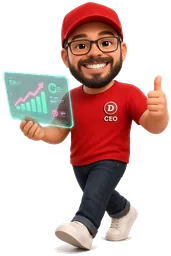
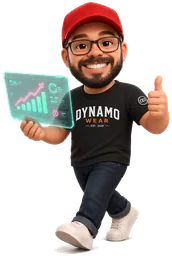
WorkAI: camiseta final do Daniel e o prédio Dynamo Wear
A versão aprovada troca a camiseta vermelha pela preta da marca. A Dyna 2.0 e cinco papéis de proposta ocupam um prédio separado, lido da plataforma de afiliados.

diff --git a/workai/workai.js b/workai/workai.js
@@ -3,7 +3,7 @@
 // chave, token ou IP, e nada é enviado para fora.
 // Integração das falas: WorkAI.notify(agentId, texto, { demo: true }).
 (() => {
-  const COLS = 20, ROWS = 36, TW = 64, TH = 32, WALL = 52;
+  const COLS = 20, ROWS = 52, TW = 64, TH = 32, WALL = 52;
   const reduce = matchMedia('(prefers-reduced-motion: reduce)').matches;
   const PASSO = 1000 / 30;
 
@@ -22,12 +22,16 @@
     { id: 'cli', name: 'Clientes', short: 'Clientes', col: '#7eb6e0', c: 8, r: 27, w: 6, h: 3, ala: 'dyno' },
     { id: 'fin', name: 'Finanças', short: 'Finanças', col: '#e2b657', c: 15, r: 27, w: 4, h: 3, ala: 'dyno' },
     { id: 'tec', name: 'Tecnologia', sub: 'Estaleiro e Esteira', short: 'Tecnologia', col: '#3ec6e0', c: 1, r: 33, w: 12, h: 3, ala: 'dyno' },
-    { id: 'brev', name: 'Em breve', short: 'Em breve', col: '#8a8f99', c: 14, r: 33, w: 5, h: 3, ala: 'dyno', breve: true }
+    { id: 'brev', name: 'Em breve', short: 'Em breve', col: '#8a8f99', c: 14, r: 33, w: 5, h: 3, ala: 'dyno', breve: true },
+    { id: 'marca', name: 'Dynamo Wear', sub: 'EST. 2026', short: 'Marca', col: '#ff7a1a', piso: '#2a1c14cc', c: 1, r: 40, w: 11, h: 4, glass: true, ala: 'wear' },
+    { id: 'wped', name: 'Pedidos', short: 'Pedidos', col: '#ffb020', piso: '#241910cc', c: 13, r: 40, w: 6, h: 4, ala: 'wear' },
+    { id: 'wcom', name: 'Comissões', short: 'Comissões', col: '#e2c27a', piso: '#241910cc', c: 1, r: 47, w: 8, h: 3, ala: 'wear' },
+    { id: 'wcon', name: 'Conteúdo', short: 'Conteúdo', col: '#ff8a2a', piso: '#241910cc', c: 10, r: 47, w: 9, h: 3, ala: 'wear' }
   ];
   const room = (id) => ROOMS.find((r) => r.id === id);
   const salaDe = (c, r) => ROOMS.find((rm) => c >= rm.c && r >= rm.r && c < rm.c + rm.w && r < rm.r + rm.h) || null;
 
-  const PORTAS = [[8, 4], [9, 4], [3, 6], [4, 6], [9, 6], [10, 6], [16, 6], [17, 6], [3, 10], [4, 10], [9, 10], [10, 10], [16, 10], [17, 10], [2, 12], [3, 12], [7, 12], [8, 12], [12, 12], [13, 12], [17, 12], [7, 20], [8, 20], [14, 20], [15, 20], [4, 24], [5, 24], [14, 24], [15, 24], [2, 26], [3, 26], [9, 26], [10, 26], [16, 26], [17, 26], [2, 30], [3, 30], [9, 30], [10, 30], [16, 30], [4, 32], [5, 32], [8, 32], [9, 32], [16, 32]];
+  const PORTAS = [[8, 4], [9, 4], [3, 6], [4, 6], [9, 6], [10, 6], [16, 6], [17, 6], [3, 10], [4, 10], [9, 10], [10, 10], [16, 10], [17, 10], [2, 12], [3, 12], [7, 12], [8, 12], [12, 12], [13, 12], [17, 12], [7, 20], [8, 20], [14, 20], [15, 20], [4, 24], [5, 24], [14, 24], [15, 24], [2, 26], [3, 26], [9, 26], [10, 26], [16, 26], [17, 26], [2, 30], [3, 30], [9, 30], [10, 30], [16, 30], [4, 32], [5, 32], [8, 32], [9, 32], [16, 32], [3, 44], [4, 44], [15, 44], [16, 44], [2, 46], [3, 46], [12, 46], [13, 46]];
   const VAGAS = {
     copa: [[12, 13], [13, 13], [14, 13], [14, 15], [11, 14], [12, 15], [13, 15]],
     desc: [[16, 13], [16, 14], [18, 13], [17, 13], [17, 14]],
@@ -75,7 +79,13 @@
     { room: 'tec', name: 'Gauntlet', role: 'prova ao lado do Estaleiro', sit: 'No ar', cuida: 'A prova ao lado do Estaleiro.', nunca: 'Publica no lugar da esteira.', desk: [12, 33], c: 11.5, r: 35.35 },
     { room: 'brev', name: 'Partner AI', role: 'em breve', breve: true, sit: 'Em breve', cuida: 'Ainda sem função publicada.', nunca: 'Ainda não atua.', c: 15.5, r: 34.35 },
     { room: 'brev', name: 'Ads AI', role: 'em breve', breve: true, sit: 'Em breve', cuida: 'Ainda sem função publicada.', nunca: 'Ainda não atua.', c: 17.5, r: 34.35 },
-    { room: 'brev', name: 'Guard AI', role: 'em breve', breve: true, sit: 'Em breve', cuida: 'Ainda sem função publicada.', nunca: 'Ainda não atua.', c: 16.5, r: 35.35 }
+    { room: 'brev', name: 'Guard AI', role: 'em breve', breve: true, sit: 'Em breve', cuida: 'Ainda sem função publicada.', nunca: 'Ainda não atua.', c: 16.5, r: 35.35 },
+    { room: 'marca', name: 'Dyna 2.0', role: 'agente-chefe da Dynamo Wear', chefe: true, tom: '#ff7a1a', sit: 'Chefe do setor', cuida: 'O setor Dynamo Wear e a fila do time.', nunca: 'Mostra dado de afiliado, cupom, pedido ou valor.', c: 5.5, r: 42.35 },
+    { room: 'marca', name: 'Afiliados', role: 'cadastro de afiliados', proposta: true, sit: 'Proposta', cuida: 'O cadastro de afiliados: status e aprovação.', nunca: 'Expõe nome, contato ou chave de pagamento.', desk: [2, 40], c: 2.5, r: 41.4 },
+    { room: 'marca', name: 'Cupons', role: 'cupons da loja', proposta: true, sit: 'Proposta', cuida: 'O cupom ligado ao afiliado e o desconto na loja.', nunca: 'Cria um cupom real nem mostra código.', desk: [9, 40], c: 9.5, r: 41.4 },
+    { room: 'wped', name: 'Pedidos', role: 'pedidos da loja', proposta: true, sit: 'Proposta', cuida: 'O pedido da loja atribuído a um afiliado.', nunca: 'Mostra pedido, cliente ou valor.', desk: [14, 40], c: 15.5, r: 41.4 },
+    { room: 'wcom', name: 'Comissões', role: 'comissão e saque', proposta: true, sit: 'Proposta', cuida: 'A comissão da venda e o pedido de saque.', nunca: 'Paga. Dinheiro nunca passa do nível 2.', desk: [2, 47], c: 4.5, r: 48.35 },
+    { room: 'wcon', name: 'Conteúdo', role: 'presença de creator', proposta: true, sit: 'Proposta', cuida: 'A presença de creator no perfil do afiliado.', nunca: 'Publica peça nem cita creator real.', desk: [11, 47], c: 14.5, r: 48.35 }
   ];
 
   const W = new Uint8Array(COLS * ROWS);
@@ -111,8 +121,16 @@
   fill(1, 31, 18, 31);
   fill(1, 33, 12, 35);
   fill(14, 33, 18, 35);
+  fill(8, 36, 9, 37);
+  fill(6, 38, 12, 39);
+  fill(1, 39, 18, 39);
+  fill(1, 40, 11, 43);
+  fill(13, 40, 18, 43);
+  fill(1, 45, 18, 45);
+  fill(1, 47, 8, 49);
+  fill(10, 47, 18, 49);
   for (const [c, r] of PORTAS) mark(c, r, 1);
-  const BLOQUEIOS = [[7, 1], [8, 1], [9, 1], [10, 1], [8, 0], [9, 0], [12, 14], [13, 14], [11, 15], [17, 15], [18, 15], [16, 15], [18, 14], [1, 9], [11, 9], [18, 7], [1, 13], [4, 15], [6, 13], [3, 21], [4, 21], [5, 21], [4, 22], [5, 22]];
+  const BLOQUEIOS = [[7, 1], [8, 1], [9, 1], [10, 1], [8, 0], [9, 0], [12, 14], [13, 14], [11, 15], [17, 15], [18, 15], [16, 15], [18, 14], [1, 9], [11, 9], [18, 7], [1, 13], [4, 15], [6, 13], [3, 21], [4, 21], [5, 21], [4, 22], [5, 22], [6, 40], [7, 40]];
   for (const a of RAW) if (a.desk) BLOQUEIOS.push(a.desk);
   for (const [c, r] of BLOQUEIOS) mark(c, r, 0);
 
@@ -130,14 +148,14 @@
     return {
       roomId: a.room, room: rm, name: a.name, id: slug(a.name), role: a.role,
       coord: !!a.coord, shield: !!a.shield, bot: !!a.bot, ceo: !!a.ceo, desk: a.desk || null,
-      destaque: !!a.destaque, brief: !!a.brief, breve: !!a.breve, tom: a.tom || '',
+      destaque: !!a.destaque, brief: !!a.brief, breve: !!a.breve, chefe: !!a.chefe, proposta: !!a.proposta, tom: a.tom || '',
       sit: a.sit || '', nivel: a.nivel || (a.cuida ? 'não marcado' : ''),
       cuida: a.cuida || '', nunca: a.nunca || '',
       homeC: a.c, homeR: a.r, c: a.c, r: a.r,
       hair: a.ceo ? '#2a1810' : a.name === 'Dina' ? '#6d3ea3' : HAIR[h % HAIR.length],
       skin: a.ceo ? '#e4b48e' : a.bot ? '#d7f6ff' : a.name === 'Dina' ? '#f6d0dc' : SKIN[h % SKIN.length],
       hairStyle: a.ceo ? 0 : h % 6, ph: (h % 628) / 100,
-      status: a.ceo || a.breve || rm.ala === 'dyno' ? null : STATUS[h % 4],
+      status: a.ceo || a.breve || rm.ala === 'dyno' || rm.ala === 'wear' ? null : STATUS[h % 4],
       nome: a.ceo ? 'Daniel' : a.name,
       caminho: null, passo: 0, espera: 1200 + (h % 5000), fila: [], missao: null, trava: 0, repath: 0, ultimoAlvo: ''
     };
@@ -147,10 +165,12 @@
   if (erros.length) console.warn('WorkAI mapa', erros.join('; '));
 
   // O robô verde é só o Dyno AI. O Dyno Bot (CTO) continua o holograma com coroa.
+  // A Dyna 2.0 é o robô preto e laranja, com o W. Não é a Dina.
   const ROBOS = {
     Daniel: { cor: '#e2c27a', base: '/workai/assets/avatares/daniel', alto: 102 },
     'Dyno AI': { cor: '#3ddc97', base: '/workai/assets/avatares/dyno', alto: 98 },
-    Dina: { cor: '#ff4fa3', base: '/workai/assets/avatares/dina', alto: 90 }
+    Dina: { cor: '#ff4fa3', base: '/workai/assets/avatares/dina', alto: 90 },
+    'Dyna 2.0': { cor: '#ff7a1a', base: '/workai/assets/avatares/dyna', alto: 96 }
   };
   const carregarImg = (src) => {
     if (typeof Image !== 'function') return null;
@@ -180,6 +200,8 @@
   const nomeCeo = () => player.nome || 'Daniel';
   const reportsTo = (a) => {
     if (a.ceo) return '';
+    if (a.chefe) return nomeCeo() + ' (CEO)';
+    if (a.room?.ala === 'wear') return 'Dyna 2.0';
     if (a.bot || a.brief) return nomeCeo() + ' (CEO)';
     if (a.room?.ala === 'dyno') return 'Brief AI';
     if (a.coord || a.roomId === 'op') return 'Dyno Bot (CTO)';
@@ -408,7 +430,13 @@
     'Testes': 'A verificação ilustrativa da esteira terminou.',
     'Revisor': 'A revisão ilustrativa da esteira está na fila.',
     'Sentinela Esteira': 'O passo ilustrativo de publicação foi observado.',
-    'Gauntlet': 'A prova ilustrativa ao lado do Estaleiro terminou.'
+    'Gauntlet': 'A prova ilustrativa ao lado do Estaleiro terminou.',
+    'Dyna 2.0': 'O setor ilustrativo da Dynamo Wear tem um aviso.',
+    Afiliados: 'Um cadastro ilustrativo de afiliado espera leitura.',
+    Cupons: 'Um cupom ilustrativo da loja espera revisão.',
+    Pedidos: 'Um pedido ilustrativo da loja foi atribuído.',
+    'Comissões': 'Uma comissão ilustrativa espera aprovação. Dinheiro não passa do nível 2.',
+    'Conteúdo': 'Uma peça ilustrativa de creator ficou no rascunho.'
   };
   function tickDemo(dt) {
     demoEm -= dt;
@@ -505,6 +533,7 @@
   }
   function boundsOf(id) {
     if (id === 'dyno') return caixa(0, 18.2, COLS, 36.3);
+    if (id === 'wear') return caixa(0, 37.2, COLS, ROWS + 0.3);
     if (!id || id === 'dm') return caixa(0, -0.4, COLS, 16.8);
     const rm = room(id);
     if (!rm) return caixa(0, -0.4, COLS, 16.8);
@@ -515,17 +544,27 @@
       const r = Math.floor(player.r);
       return [Math.max(0, r - 12), Math.min(ROWS - 1, r + 10)];
     }
-    if (focusId === 'dyno') return [18, ROWS - 1];
+    if (focusId === 'dyno') return [18, 36];
+    if (focusId === 'wear') return [37, ROWS - 1];
     const rm = room(focusId);
     if (rm) return [Math.max(0, rm.r - 2), Math.min(ROWS - 1, rm.r + rm.h + 2)];
     return [0, 17];
   }
   function drawWalls() {
     const h = WALL;
-    quad(project(0, -0.2, h), project(COLS, -0.2, h), project(COLS, -0.2, 0), project(0, -0.2, 0), '#3a342c');
-    quad(project(-0.2, 0, h), project(-0.2, ROWS, h), project(-0.2, ROWS, 0), project(-0.2, 0, 0), '#2e2924');
-    quad(project(0, -0.2, h + 5), project(COLS, -0.2, h + 5), project(COLS, -0.2, h), project(0, -0.2, h), '#e2c27a');
-    quad(project(-0.2, 0, h + 5), project(-0.2, ROWS, h + 5), project(-0.2, ROWS, h), project(-0.2, 0, h), '#c4a15a');
+    const faixa = (c0, c1, r, col, cap) => {
+      quad(project(c0, r, h), project(c1, r, h), project(c1, r, 0), project(c0, r, 0), col);
+      quad(project(c0, r, h + 5), project(c1, r, h + 5), project(c1, r, h), project(c0, r, h), cap);
+    };
+    const lado = (c, r0, r1, col, cap) => {
+      quad(project(c, r0, h), project(c, r1, h), project(c, r1, 0), project(c, r0, 0), col);
+      quad(project(c, r0, h + 5), project(c, r1, h + 5), project(c, r1, h), project(c, r0, h), cap);
+    };
+    faixa(0, COLS, -0.2, '#3a342c', '#e2c27a');
+    lado(-0.2, 0, 36, '#2e2924', '#c4a15a');
+    faixa(0, 7.6, 37.8, '#161616', '#ff7a1a');
+    faixa(10.4, COLS, 37.8, '#161616', '#ff7a1a');
+    lado(-0.2, 38, ROWS, '#121212', '#ff7a1a');
   }
   function tile(c, r, col) {
     quad(project(c, r), project(c + 1, r), project(c + 1, r + 1), project(c, r + 1), col);
@@ -533,26 +572,34 @@
   function drawFloor() {
     const [r0, r1] = vista;
     for (let r = r0; r <= r1; r++) for (let c = 0; c < COLS; c++) if (W[at(c, r)]) {
-      tile(c, r, (c + r) % 2 ? '#171a22' : '#1c1f29');
+      const zona = r >= 38 ? 'wear' : (r >= 36 ? 'ponte' : 'casa');
+      const cor = zona === 'wear' ? ((c + r) % 2 ? '#121214' : '#1a1a1d') : zona === 'ponte' ? ((c + r) % 2 ? '#2a2118' : '#3a2c1e') : ((c + r) % 2 ? '#171a22' : '#1c1f29');
+      tile(c, r, cor);
     }
     for (const rm of ROOMS) {
       if (rm.r + rm.h < r0 || rm.r > r1) continue;
       ctx.save();
       if (rm.breve) ctx.globalAlpha = 0.42;
-      quad(project(rm.c, rm.r), project(rm.c + rm.w, rm.r), project(rm.c + rm.w, rm.r + rm.h), project(rm.c, rm.r + rm.h), rm.col + (rm.glass ? '99' : '66'));
+      quad(project(rm.c, rm.r), project(rm.c + rm.w, rm.r), project(rm.c + rm.w, rm.r + rm.h), project(rm.c, rm.r + rm.h), rm.piso || (rm.col + (rm.glass ? '99' : '66')));
       ctx.beginPath();
       const a = project(rm.c, rm.r), b = project(rm.c + rm.w, rm.r), c = project(rm.c + rm.w, rm.r + rm.h), d = project(rm.c, rm.r + rm.h);
       ctx.moveTo(a.x, a.y); ctx.lineTo(b.x, b.y); ctx.lineTo(c.x, c.y); ctx.lineTo(d.x, d.y); ctx.closePath();
-      ctx.strokeStyle = rm.id === 'odyn' ? '#d7f5b0' : rm.col;
+      ctx.strokeStyle = rm.ala === 'wear' ? '#ff7a1a' : rm.id === 'odyn' ? '#d7f5b0' : rm.col;
       ctx.globalAlpha = rm.breve ? 0.45 : rm.glass ? 0.95 : 0.55;
-      ctx.lineWidth = rm.id === 'odyn' ? 3.2 : rm.glass ? 2.4 : 1.5;
+      ctx.lineWidth = rm.ala === 'wear' || rm.id === 'odyn' ? 3.2 : rm.glass ? 2.4 : 1.5;
       ctx.stroke();
       ctx.restore();
     }
     for (const [c, r] of PORTAS) if (r >= r0 && r <= r1) tile(c, r, '#3a3428');
-    const edge = [project(0, 0), project(COLS, 0), project(COLS, ROWS), project(0, ROWS)];
-    ctx.beginPath(); edge.forEach((p, i) => (i ? ctx.lineTo(p.x, p.y) : ctx.moveTo(p.x, p.y))); ctx.closePath();
-    ctx.strokeStyle = 'rgba(226,194,122,.8)'; ctx.lineWidth = 2; ctx.stroke();
+    const o = (c, r) => project(c, r);
+    const contorno = (pts, cor) => {
+      ctx.beginPath();
+      pts.forEach((p, i) => (i ? ctx.lineTo(p.x, p.y) : ctx.moveTo(p.x, p.y)));
+      ctx.closePath();
+      ctx.strokeStyle = cor; ctx.lineWidth = 2; ctx.stroke();
+    };
+    contorno([o(0, 0), o(COLS, 0), o(COLS, 36), o(10.3, 36), o(10.3, 36.15), o(7.7, 36.15), o(7.7, 36), o(0, 36)], 'rgba(226,194,122,.8)');
+    contorno([o(0, 38), o(7.7, 38), o(7.7, 37.85), o(10.3, 37.85), o(10.3, 38), o(COLS, 38), o(COLS, ROWS), o(0, ROWS)], 'rgba(255,122,26,.9)');
   }
   function medallion(c, r) {
     const p = project(c, r, 0);
@@ -633,9 +680,34 @@
     box(3.05, 21.05, 2.7, 1.15, 10, '#d7f5b0', '#6ea84a', '#3e6a2c');
     box(3.35, 21.3, 2.1, 0.55, 16, '#e2c27a', '#a6853f', '#6e5424');
   }
+  function drawArara() {
+    box(5.7, 40.15, 1.7, 0.32, 20, '#141414', '#0e0e0e', '#080808');
+    box(5.82, 40.2, 0.12, 0.2, 28, '#ff7a1a', '#c45a10', '#8a3c08');
+    box(7.05, 40.2, 0.12, 0.2, 28, '#ff7a1a', '#c45a10', '#8a3c08');
+    const p = project(6.55, 40.28, 24);
+    ctx.fillStyle = '#111';
+    ctx.fillRect(p.x - 16, p.y - 10, 18, 14);
+    ctx.strokeStyle = '#ff7a1a'; ctx.lineWidth = 1; ctx.strokeRect(p.x - 16, p.y - 10, 18, 14);
+  }
+  function drawLetreiro() {
+    const p = project(6.1, 39.15, 36);
+    ctx.save();
+    ctx.translate(p.x, p.y);
+    ctx.fillStyle = '#111';
+    ctx.fillRect(-58, -24, 116, 40);
+    ctx.strokeStyle = '#ff7a1a'; ctx.lineWidth = 1.6; ctx.strokeRect(-58, -24, 116, 40);
+    ctx.textAlign = 'center'; ctx.textBaseline = 'middle';
+    ctx.fillStyle = '#fff'; ctx.font = '800 14px system-ui,sans-serif';
+    ctx.fillText('DYNAMO', 0, -8);
+    ctx.fillStyle = '#ff7a1a'; ctx.font = '800 11px system-ui,sans-serif';
+    ctx.fillText('WEAR', 0, 6);
+    ctx.fillStyle = '#f4efe4'; ctx.font = '600 7px system-ui,sans-serif';
+    ctx.fillText('EST. 2026', 0, 16);
+    ctx.restore();
+  }
   function drawFluxos() {
     if (!fluxos) return;
-    const ala = focusId === 'dyno' || (seguir && player.r > 17) || room(focusId)?.ala === 'dyno';
+    const ala = focusId === 'dyno' || room(focusId)?.ala === 'dyno' || (seguir && player.r > 17 && player.r < 36);
     if (!ala) return;
     const pos = (nome) => { const a = achar(nome); return project(a.homeC, a.homeR, 3); };
     const est = project(6.2, 34.1, 3);
@@ -679,7 +751,7 @@
     const larg = alto * (img.naturalWidth / img.naturalHeight);
     ctx.save();
     ctx.translate(feet.x, feet.y);
-    const marca = a.destaque || a.ceo;
+    const marca = a.destaque || a.ceo || a.chefe;
     ellipse(0, 3, marca ? 20 : 16, 7, 'rgba(0,0,0,.32)');
     if (!reduce) {
       ctx.strokeStyle = a.corRobo;
@@ -792,14 +864,15 @@
   function visivel(a) {
     if (seguir) return Math.abs(a.r - player.r) < 14 && Math.abs(a.c - player.c) < 16;
     if (focusId === 'dyno') return a.room?.ala === 'dyno';
-    if (focusId === 'dm' || !focusId) return a.room?.ala !== 'dyno';
+    if (focusId === 'wear') return a.room?.ala === 'wear';
+    if (focusId === 'dm' || !focusId) return a.room?.ala === 'dm';
     return a.roomId === focusId;
   }
 
   function drawLabels() {
     const overview = !seguir && ((focusId === 'dyno' && cam.s < 0.95) || ((focusId === 'dm' || !focusId) && cam.s < 0.72));
     if (overview) {
-      const ala = focusId === 'dyno' ? 'dyno' : 'dm';
+      const ala = focusId === 'dyno' ? 'dyno' : focusId === 'wear' ? 'wear' : 'dm';
       ctx.textAlign = 'center'; ctx.textBaseline = 'middle'; ctx.font = '700 12px system-ui,sans-serif';
       for (const rm of ROOMS) {
         if (rm.ala !== ala) continue;
@@ -824,8 +897,8 @@
       for (const p of placed) if (Math.abs(p.x - s.x) < (p.w + w) / 2 && Math.abs(p.y - y) < 18) y = p.y - 18;
       placed.push({ x: s.x, y, w });
       const hot = hover === a;
-      const claro = hot || a.ceo || a.destaque || a.name === 'Dina';
-      const borda = a.ceo ? '#e2c27a' : a.name === 'Dina' ? '#ff4fa3' : a.destaque ? '#3ddc97' : a.room.col;
+      const claro = hot || a.ceo || a.destaque || a.chefe || a.name === 'Dina';
+      const borda = a.ceo ? '#e2c27a' : (a.corRobo || (a.destaque ? '#3ddc97' : a.room.col));
       rr(s.x - w / 2, y - 10, w, 20, 8, claro ? '#fffdf6' : 'rgba(8,10,16,.88)', borda);
       ctx.fillStyle = claro ? '#1b1f2e' : '#fff';
       ctx.fillText(label, s.x + (a.status ? 4 : 0), y);
@@ -873,7 +946,7 @@
   }
   function drawLegendaFluxos() {
     if (!fluxos) return;
-    const ala = focusId === 'dyno' || room(focusId)?.ala === 'dyno' || (seguir && player.r > 17);
+    const ala = focusId === 'dyno' || room(focusId)?.ala === 'dyno' || (seguir && player.r > 17 && player.r < 36);
     if (!ala) return;
     const itens = [['#f0a05a', 'Cliente novo'], ['#7eb6e0', 'Chamado'], ['#3ec6e0', 'Erro no ambiente'], ['#f0d78c', 'Gestão → Daniel']];
     ctx.font = '700 12px system-ui,sans-serif'; ctx.textAlign = 'left'; ctx.textBaseline = 'middle';
@@ -923,7 +996,7 @@
       pool(17.2, 14.4, 60, 'rgba(126,200,195,.16)');
       medallion(9.5, 5.5);
     }
-    if (vista[1] > 20) pool(5, 22.4, 96, 'rgba(141,212,106,.22)');
+    if (vista[0] < 30 && vista[1] > 20) pool(5, 22.4, 96, 'rgba(141,212,106,.22)');
     const list = [];
     const add = (k, fn) => list.push({ k, fn });
     if (vista[0] < 16) {
@@ -931,7 +1004,8 @@
       [[1, 9], [11, 9], [18, 7], [1, 13], [4, 15], [6, 13]].forEach(([c, r]) => add(c + r, () => drawPlant(c, r)));
       add(26, drawMesaCopa); add(26.2, drawCafe); add(30, drawLounge);
     }
-    if (vista[1] > 20) add(24.4, drawPalco);
+    if (vista[0] < 34 && vista[1] > 20) add(24.4, drawPalco);
+    if (vista[1] > 38) { add(39.3, drawLetreiro); add(40.5, drawArara); }
     for (const a of agents) if (a.desk && visivel(a)) add(a.desk[0] + a.desk[1] + 0.2, () => drawDesk(a));
     for (const a of agents) if (visivel(a)) add(a.c + a.r + 0.05, () => drawAgent(a, andando(a)));
     list.sort((a, b) => a.k - b.k);
@@ -955,8 +1029,8 @@
     ctx.setTransform(dpr, 0, 0, dpr, 0, 0);
     if (focusId && !seguir) {
       const rm = room(focusId);
-      const texto = rm ? (rm.sub ? rm.name + ' · ' + rm.sub : rm.name) : (focusId === 'dyno' ? 'Operação Dyno' : 'Escritório');
-      const col = rm ? rm.col : (focusId === 'dyno' ? '#8fd46a' : '#e2c27a');
+      const texto = rm ? (rm.sub ? rm.name + ' · ' + rm.sub : rm.name) : (focusId === 'dyno' ? 'Operação Dyno' : focusId === 'wear' ? 'Dynamo Wear · EST. 2026' : 'Escritório');
+      const col = rm ? rm.col : (focusId === 'dyno' ? '#8fd46a' : focusId === 'wear' ? '#ff7a1a' : '#e2c27a');
       ctx.font = '700 13px system-ui,sans-serif'; ctx.textAlign = 'left'; ctx.textBaseline = 'middle';
       const w = ctx.measureText(texto).width + 16;
       rr(12, 10, w, 22, 8, 'rgba(8,10,16,.88)');
@@ -1009,7 +1083,7 @@
     h.id = 'card-nome';
     h.textContent = (a.ceo ? a.nome : a.name) + (a.coord ? ' ★' : '') + (a.shield ? ' 🛡' : '');
     const papel = document.createElement('p'); papel.className = 'papel';
-    papel.textContent = a.ceo ? 'CEO' : a.bot ? 'CTO' : a.destaque ? 'Carro-chefe' : a.name === 'Dina' ? 'Agenda e rotina' : a.brief ? 'Ponte de gestão' : a.breve ? 'Em breve' : a.coord ? 'Coordenador' : a.shield ? 'Segurança' : 'Agente';
+    papel.textContent = a.ceo ? 'CEO' : a.bot ? 'CTO' : a.chefe ? 'Chefe da Dynamo Wear' : a.proposta ? 'Proposta' : a.destaque ? 'Carro-chefe' : a.name === 'Dina' ? 'Agenda e rotina' : a.brief ? 'Ponte de gestão' : a.breve ? 'Em breve' : a.coord ? 'Coordenador' : a.shield ? 'Segurança' : 'Agente';
     const area = document.createElement('p'); area.className = 'area';
     const dot = document.createElement('span'); dot.className = 'ponto'; dot.style.background = a.room.col;
     area.append(dot, document.createTextNode(a.room.sub ? a.room.name + ' · ' + a.room.sub : a.room.name));
@@ -1036,6 +1110,7 @@
       corpo.append(p);
     };
     if (a.bot) { const g = document.createElement('p'); g.textContent = 'Gerente dos agentes.'; corpo.append(g); }
+    else if (a.chefe) { const g = document.createElement('p'); g.textContent = 'Agente-chefe da Dynamo Wear. Responde ao Daniel.'; corpo.append(g); }
     else if (!a.ceo && !a.cuida) {
       const role = document.createElement('p');
       role.textContent = a.role.charAt(0).toUpperCase() + a.role.slice(1) + '.';
@@ -1118,6 +1193,7 @@
   }
   chip('dm', 'Escritório', '#e2c27a');
   chip('dyno', 'Operação Dyno', '#8fd46a');
+  chip('wear', 'Dynamo Wear', '#ff7a1a');
   ROOMS.forEach((r) => chip(r.id, r.short, r.col));
   document.getElementById('centralizar').addEventListener('click', () => { seguir = true; focusId = ''; syncChips(); });
   const btnFluxos = document.getElementById('fluxos');
@@ -1152,7 +1228,7 @@
     linha('n1', 'Dyno Bot · CTO · gerente', achar('Dyno Bot'));
     linha('n2', 'Recap AI', achar('Recap AI'));
     for (const rm of ROOMS) {
-      if (rm.id === 'dir' || rm.id === 'copa' || rm.id === 'desc' || rm.id === 'op') continue;
+      if (rm.ala !== 'dm' || rm.id === 'dir' || rm.id === 'copa' || rm.id === 'desc' || rm.id === 'op') continue;
       const coord = agents.find((a) => a.roomId === rm.id && a.coord);
       if (!coord) continue;
       linha('n2', '★ ' + coord.name + ' · ' + rm.short, coord);
@@ -1167,6 +1243,9 @@
       linha('n2', rm.short, null, () => setFocus(id));
       agents.filter((a) => a.roomId === id).forEach((a) => linha(a.breve ? 'n3 breve' : 'n3', a.name, a));
     }
+    linha('n1', 'Dynamo Wear', null, () => setFocus('wear'));
+    linha('n2', 'Dyna 2.0 · chefe', achar('Dyna 2.0'));
+    for (const nome of ['Afiliados', 'Cupons', 'Pedidos', 'Comissões', 'Conteúdo']) linha('n3', nome + ' · proposta', achar(nome));
   }
   montarArvore();
 
@@ -1226,7 +1305,7 @@
       abrir(a, { x: x == null ? 640 : x, y: y == null ? 120 : y });
       return document.getElementById('card-corpo').textContent;
     },
-    robosProntos: () => ['Daniel', 'Dyno AI', 'Dina'].every((n) => {
+    robosProntos: () => ['Daniel', 'Dyno AI', 'Dina', 'Dyna 2.0'].every((n) => {
       const a = achar(n);
       return !!(a && spriteRobo(a));
     }),

diff --git a/workai/index.html b/workai/index.html
@@ -42,7 +42,7 @@
     <p class="regra">Dinheiro nunca passa do nível 2.</p>
     <h2>Hierarquia</h2>
     <div class="arvore" id="arvore"></div>
-    <p class="nota">Daniel (CEO) fica acima do Dyno Bot (CTO). A ala Operação Dyno responde à Diretoria, e o Brief AI é a ponte de gestão. ★ coordenador · escudo de segurança. Um aviso (demo) faz o agente vir até você. Os três esmaecidos estão em breve. Os status são ilustrativos.</p>
+    <p class="nota">Daniel (CEO) fica acima do Dyno Bot (CTO) e da Dyna 2.0, chefe da Dynamo Wear. A Operação Dyno responde à Diretoria pelo Brief AI. Os papéis marcados como proposta ainda não têm nível. ★ coordenador · escudo de segurança. Um aviso (demo) faz o agente vir até você. Os três esmaecidos estão em breve. Os status são ilustrativos.</p>
   </aside>
 </div>
 <div id="card" hidden role="dialog" aria-modal="false" aria-labelledby="card-nome">

diff --git a/workai/PUBLICAR.md b/workai/PUBLICAR.md
@@ -69,7 +69,7 @@ Conferir, sem cookie:
 - `https://workai.dmobservait.com/` → 302 para `/admin/login`
 - a página de login é a mesma do painel
 - `/workai/workai.js` sem sessão → 401
-- `/workai/assets/avatares/*.webp` sem sessão → 401 (o Daniel e os robôs oficiais do Dyno AI e da Dina)
+- `/workai/assets/avatares/*.webp` sem sessão → 401 (o Daniel, a Dyna 2.0 e os robôs oficiais do Dyno AI e da Dina)
 
 Com a sessão criada nessa origem, `/` mostra o escritório. `Sair` posta em
 `/admin/auth/sair` e volta para `/admin/login`.
